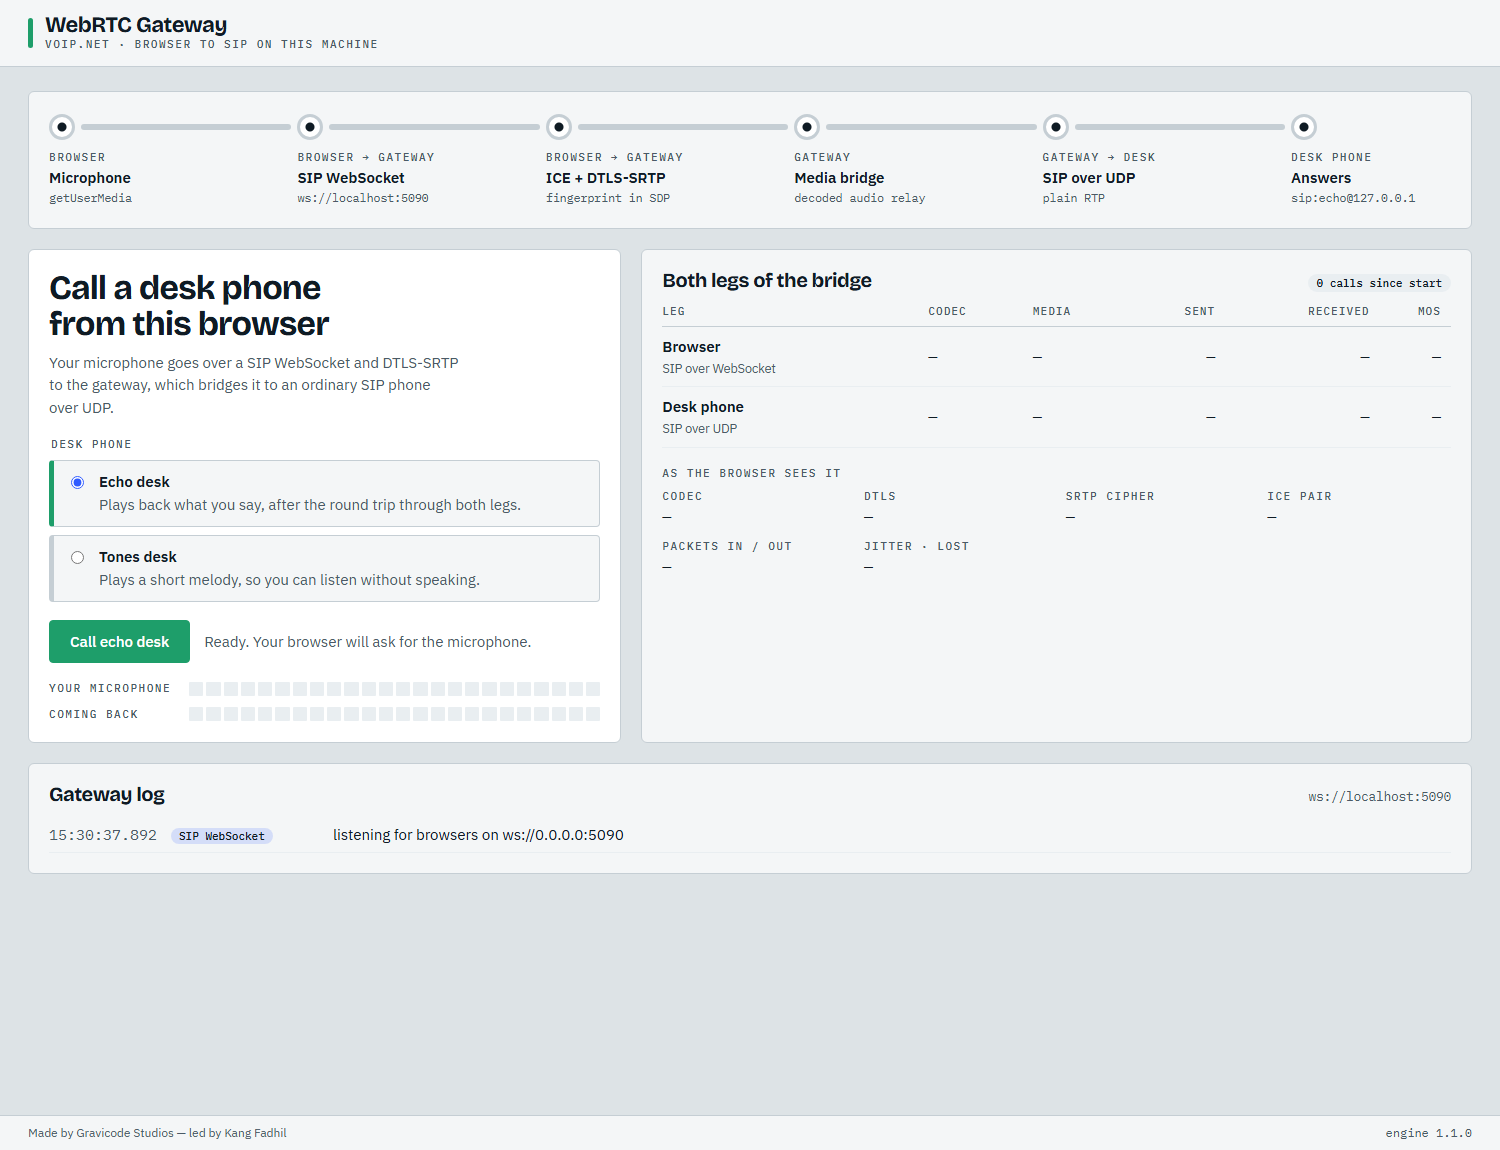
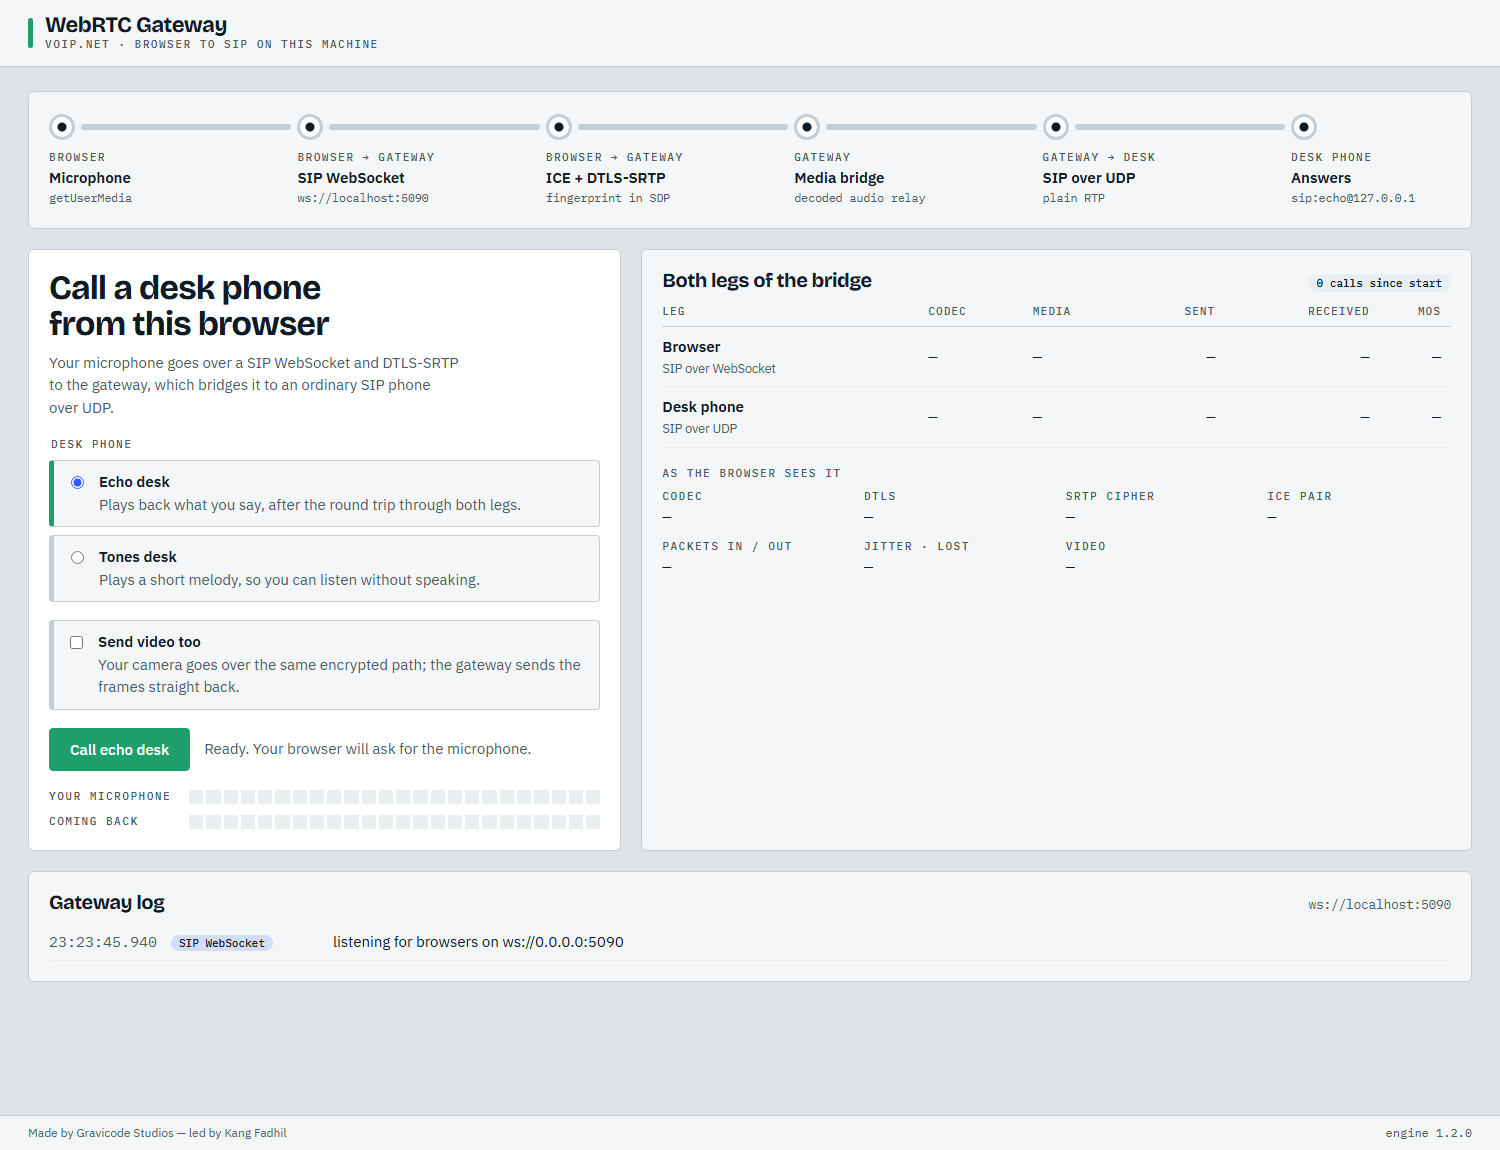
VoipNet: the WebPhone sample sends video
Tick "Send video too" and the browser's camera goes over the same DTLS-SRTP
path as the microphone: the engine reassembles the frames, the gateway sends
them straight back, and the returned picture plays in the page. Edge encodes
VP8 at 320×240 and decodes what comes back — the whole video path through a real
browser encoder, the engine, and back to a real decoder.

Video means a transport per media line rather than BUNDLE, because each stream
has its own port here: the page asks for max-compat when video is on, and the
engine only claims a BUNDLE group when a single stream was accepted.

The CI interop test now ticks the box too and fails unless video returns.

diff --git a/VoipNet/samples/VoipNet.WebPhone/wwwroot/webphone.js b/VoipNet/samples/VoipNet.WebPhone/wwwroot/webphone.js
@@ -35,7 +35,11 @@ function parse(text) {
 const uriOf = value => (/<([^>]+)>/.exec(value) ?? [null, value.split(";")[0]])[1];
 
 async function collectStats(pc) {
-    const out = { packetsSent: 0, packetsReceived: 0, packetsLost: 0, jitterMs: 0, micLevel: 0, remoteLevel: 0, codec: "", dtlsState: "", srtpCipher: "", candidatePair: "" };
+    const out = {
+        packetsSent: 0, packetsReceived: 0, packetsLost: 0, jitterMs: 0, micLevel: 0, remoteLevel: 0,
+        codec: "", dtlsState: "", srtpCipher: "", candidatePair: "",
+        videoCodec: "", videoFramesSent: 0, videoFramesReceived: 0, videoSize: "",
+    };
     const report = await pc.getStats();
     const byId = new Map();
     report.forEach(s => byId.set(s.id, s));
@@ -48,6 +52,13 @@ async function collectStats(pc) {
             out.remoteLevel = s.audioLevel ?? 0;
             const codec = byId.get(s.codecId);
             if (codec) out.codec = `${codec.mimeType.replace("audio/", "")} ${codec.clockRate / 1000} kHz`;
+        }
+        if (s.type === "outbound-rtp" && s.kind === "video") out.videoFramesSent = s.framesEncoded ?? 0;
+        if (s.type === "inbound-rtp" && s.kind === "video") {
+            out.videoFramesReceived = s.framesDecoded ?? 0;
+            if (s.frameWidth) out.videoSize = `${s.frameWidth}×${s.frameHeight}`;
+            const codec = byId.get(s.codecId);
+            if (codec) out.videoCodec = codec.mimeType.replace("video/", "");
         }
         if (s.type === "media-source" && s.kind === "audio") out.micLevel = s.audioLevel ?? 0;
         if (s.type === "transport") {
@@ -65,7 +76,7 @@ async function collectStats(pc) {
 }
 
 /** Places a call through the gateway. `view` receives OnPhase(phase, detail) and OnStats(stats). */
-export async function call(view, wsUrl, desk, audioElement) {
+export async function call(view, wsUrl, desk, audioElement, videoElement, withVideo) {
     hangup();
     const host = new URL(wsUrl).host;
     const domain = `${token(8)}.invalid`;
@@ -92,7 +103,10 @@ export async function call(view, wsUrl, desk, audioElement) {
 
     try {
         report("microphone");
-        state.stream = await navigator.mediaDevices.getUserMedia({ audio: { echoCancellation: false, noiseSuppression: false } });
+        // A small picture at a modest frame rate: this is a demonstration, not a broadcast.
+        const wanted = { audio: { echoCancellation: false, noiseSuppression: false } };
+        if (withVideo) wanted.video = { width: 320, height: 240, frameRate: 15 };
+        state.stream = await navigator.mediaDevices.getUserMedia(wanted);
         report("connecting", wsUrl);
         state.ws = new WebSocket(wsUrl, "sip");
         await new Promise((resolve, reject) => {
@@ -100,11 +114,15 @@ export async function call(view, wsUrl, desk, audioElement) {
             state.ws.onerror = () => reject(new Error(`Could not open ${wsUrl}. Is the gateway running?`));
         });
 
-        const pc = state.pc = new RTCPeerConnection({ bundlePolicy: "max-bundle" });
+        // Voip.NET gives each media stream its own port, so audio and video cannot share a transport:
+        // with video the browser is asked for one transport per m-line.
+        const pc = state.pc = new RTCPeerConnection({ bundlePolicy: withVideo ? "max-compat" : "max-bundle" });
         state.stream.getTracks().forEach(t => pc.addTrack(t, state.stream));
         pc.ontrack = e => {
-            audioElement.srcObject = e.streams[0] ?? new MediaStream([e.track]);
-            audioElement.play().catch(() => { });
+            const element = e.track.kind === "video" ? videoElement : audioElement;
+            if (!element) return;
+            element.srcObject = e.streams[0] ?? new MediaStream([e.track]);
+            element.play().catch(() => { });
         };
         pc.onconnectionstatechange = () => report(`pc-${pc.connectionState}`);
         // Candidates found before the call is answered wait here; later ones go out as they appear.

diff --git a/VoipNet/samples/VoipNet.WebPhone/wwwroot/app.css b/VoipNet/samples/VoipNet.WebPhone/wwwroot/app.css
@@ -241,6 +241,23 @@ table.grid td.num { font-family: var(--mono); text-align: right; }
 .status { color: var(--ink-soft); }
 .status.bad { color: var(--red); }
 
+/* The camera toggle sits with the desk choices but outside the fieldset, so it stays usable on a call. */
+.video-toggle { margin: 0 0 18px; }
+.video-toggle.connected { border-left-color: var(--cobalt); }
+
+/* The returning picture: small, quiet, and only there when video is on. */
+.return-video { margin: 16px 0 0; display: grid; gap: 6px; }
+.return-video.hidden { display: none; }
+.return-video video {
+    width: 100%;
+    max-width: 320px;
+    aspect-ratio: 4 / 3;
+    background: var(--trace);
+    border: 1px solid var(--hairline);
+    border-radius: 4px;
+    object-fit: cover;
+}
+
 .meters { display: grid; gap: 10px; }
 .meter { display: grid; grid-template-columns: 130px 1fr; align-items: center; gap: 10px; }
 .ladder { display: grid; grid-template-columns: repeat(24, 1fr); gap: 3px; height: 14px; }

diff --git a/VoipNet/tools/VoipNet.DocShots/Program.cs b/VoipNet/tools/VoipNet.DocShots/Program.cs
@@ -67,6 +67,8 @@ switch (scenario)
         await browser.NavigateAsync($"{baseUrl}/");
         await browser.WaitForAsync("[...document.querySelectorAll('button')].some(b => b.textContent.trim() === 'Call echo desk' && !b.disabled)", TimeSpan.FromSeconds(15));
         await browser.ScreenshotAsync(Path.Combine(output, $"webphone-idle{suffix}.png"), fullPage: true);
+        // The fake camera is on for these runs, so the call carries video as well as audio.
+        await browser.EvaluateAsync("document.querySelector('.video-toggle input').click()");
         await browser.ClickTextAsync("button", "Call echo desk");
         var flowing = await browser.WaitForAsync("document.body.innerText.includes('Media is flowing')", TimeSpan.FromSeconds(30));
         await browser.WaitForAsync("document.querySelectorAll('.jack.live').length === 6", TimeSpan.FromSeconds(20));
@@ -78,11 +80,16 @@ switch (scenario)
         Console.WriteLine(await browser.EvaluateAsync("[...document.querySelectorAll('.jack')].map(j => j.className + ' ' + j.querySelector('.jack-detail').innerText).join('\\n')"));
         var received = await browser.EvaluateAsync("(() => { const t = [...document.querySelectorAll('.facts div')].find(d => d.innerText.startsWith('Packets') || d.innerText.startsWith('PACKETS')); return t ? parseInt(t.querySelector('dd').innerText) || 0 : 0; })()");
         var live = await browser.EvaluateAsync("document.querySelectorAll('.jack.live').length");
+        // Frames the browser decoded from what the gateway sent back: the video path, end to end.
+        var videoBack = await browser.EvaluateAsync("(() => { const el = document.querySelector('.return-video video'); return el ? el.videoWidth : 0; })()");
         await browser.ClickTextAsync("button", "Hang up");
         await Task.Delay(TimeSpan.FromSeconds(2));
 
-        var ok = flowing && Number(received) > 50 && Number(live) == 6;
-        Console.WriteLine(ok ? "interop: OK" : $"interop: FAILED (flowing={flowing}, packets in={Number(received)}, live hops={Number(live)})");
+        var ok = flowing && Number(received) > 50 && Number(live) == 6 && Number(videoBack) > 0;
+        Console.WriteLine($"video returned: {Number(videoBack)}px wide");
+        Console.WriteLine(ok
+            ? "interop: OK"
+            : $"interop: FAILED (flowing={flowing}, packets in={Number(received)}, live hops={Number(live)}, video width={Number(videoBack)})");
         return ok ? 0 : 1;
 
     default:

diff --git a/VoipNet/samples/VoipNet.WebPhone/Services/Gateway.cs b/VoipNet/samples/VoipNet.WebPhone/Services/Gateway.cs
@@ -41,6 +41,9 @@ public sealed class Bridge
 
     public string? SecurityError { get; internal set; }
 
+    /// <summary>True once video has arrived from the browser, so the page can say so.</summary>
+    public bool VideoSeen { get; internal set; }
+
     public bool Ended => BrowserLeg.State == CallState.Terminated;
 
     public CallStatistics? BrowserStats => Stats(BrowserLeg);
@@ -108,6 +111,8 @@ public sealed class Gateway(ILogger<Gateway> logger) : IHostedService, IAsyncDis
             Srtp = SrtpMode.Mandatory,
             SrtpKeying = SrtpKeying.Dtls,
             Ice = true,
+            // A browser that offers video gets it back: the gateway echoes the frames it reassembles.
+            Video = true,
             UserAgent = "Voip.NET WebRTC gateway",
         });
 
@@ -156,6 +161,26 @@ public sealed class Gateway(ILogger<Gateway> logger) : IHostedService, IAsyncDis
         var trunkLeg = _trunk!.Call($"sip:{desk}@{_desk!.LocalAddress}");
         bridge.TrunkLeg = trunkLeg;
         Changed?.Invoke();
+
+        // Video is echoed rather than bridged: the desk phone is audio only, and returning the frames
+        // shows the whole encrypted video path working — browser encoder, SRTP, this engine, and back.
+        browserLeg.VideoFrameReceived += (call, timestamp, _, frame, content) =>
+        {
+            try
+            {
+                call.SendVideoFrame(timestamp, frame, content);
+                if (!bridge.VideoSeen)
+                {
+                    bridge.VideoSeen = true;
+                    Log(Hop.Bridge, $"video from the browser ({call.VideoCodec}), echoing it back");
+                    Changed?.Invoke();
+                }
+            }
+            catch (VoipException)
+            {
+                // The browser hung up between frames.
+            }
+        };
 
         // Relay decoded audio in both directions; the engine resamples and paces each leg.
         browserLeg.AudioReceived += (_, direction, rate, samples) =>

diff --git a/VoipNet/native/voipnet-core/src/sip/endpoint.rs b/VoipNet/native/voipnet-core/src/sip/endpoint.rs
@@ -1451,11 +1451,13 @@ impl Inner {
                     ..Default::default()
                 }));
             }
-            // Keep BUNDLE (RFC 8843) for the accepted streams so WebRTC peers accept the answer.
+            // BUNDLE (RFC 8843) means one transport for every stream in the group, and this engine gives
+            // each stream its own port. So the group is only claimed when a single stream was accepted;
+            // with audio and video up, the answer leaves it out and the peer uses a transport per line.
             if offer.groups.iter().any(|g| g.starts_with("BUNDLE")) {
                 let mids: Vec<String> = sdp.media.iter().filter(|m| m.port != 0).filter_map(|m| m.mid.clone()).collect();
-                if !mids.is_empty() {
-                    sdp.groups.push(format!("BUNDLE {}", mids.join(" ")));
+                if mids.len() == 1 {
+                    sdp.groups.push(format!("BUNDLE {}", mids[0]));
                 }
             }
         }

diff --git a/VoipNet/Progress.md b/VoipNet/Progress.md
@@ -66,6 +66,7 @@ Legend · Keterangan: ✅ done · selesai — 🟡 partial · sebagian — ⏳ p
 | SRTP AES_CM_128_HMAC_SHA1_80 and AEAD_AES_128/256_GCM (RFC 7714) | ✅ | SDES or DTLS keys · kunci SDES atau DTLS |
 | DTLS-SRTP (RFC 5763/5764) | ✅ | dimpl DTLS 1.2 (pure Rust), fingerprint check, `a=setup` roles, no plain RTP before keys · tanpa RTP polos sebelum kunci siap |
 | Data channels (SCTP) | ⏳ | |
+| Browser video interop | ✅ | the WebPhone sample sends camera video over DTLS-SRTP; the gateway echoes the reassembled frames and the browser decodes them again (Edge: VP8 320×240, 64 frames out and back). Checked on every CI build · video kamera dari browser diuji pada setiap build CI |
 | Browser interop | ✅ | Chrome/Edge and Firefox verified on a desktop; Chrome gates every CI build (`tools/VoipNet.DocShots webphone`) and the build fails unless encrypted audio flows both ways. Firefox on hosted runners signals the call but never finishes ICE there, so that step reports without failing. Safari not tested (no macOS machine) · diuji di setiap build CI; Safari belum diuji |
 
 ## 🎥 Video · Fitur video
@@ -148,6 +149,7 @@ Planned in · Direncanakan di [PLAN.md 1.3](PLAN.md#13---video--fitur-video).
 
 ### Unreleased · Belum dirilis
 
+- The WebPhone sample sends video: the browser's camera goes over the same DTLS-SRTP path, the gateway echoes the frames it reassembles, and the returned picture plays in the page. The CI interop test now fails unless video comes back too. · Sample WebPhone mengirim video kamera; gateway memantulkannya dan CI menuntut video ikut kembali.
 - Conference video: the bridge forwards the active speaker (or a pinned participant) to everyone else, asking the new source for a keyframe before it switches. `FollowSpeaker()`, `Pin(call)` and `ActiveSpeaker` on `VoipConference`. · Video konferensi mengikuti pembicara aktif atau peserta yang dipin.
 - Screen sharing: a call can offer a second video stream marked `a=content:slides`, frames say which stream they belong to, and withdrawing the share leaves the call and the camera alone. · Berbagi layar sebagai stream video kedua, lengkap dengan label pada setiap frame.
 - CRM connectors for HubSpot, Salesforce, Dynamics 365 and Odoo: look a caller up by number, read their recent tickets, open one, and add a note — the four operations a voice agent needs. · Konektor CRM untuk HubSpot, Salesforce, Dynamics 365, dan Odoo.

diff --git a/VoipNet/docs/id/tools-and-diagnostics.md b/VoipNet/docs/id/tools-and-diagnostics.md
@@ -173,6 +173,12 @@ Sunting menu, opsi, dan instruksi AI; lihat jalur panggilan; tekan tombol pada t
 
 Gateway WebRTC dalam satu mesin. Script halaman adalah client SIP over WebSocket kecil: ia menelepon endpoint gateway (`ws://host:5090`) dengan offer `RTCPeerConnection`, lalu gateway menjawab dengan ICE dan DTLS-SRTP dan meneruskan audionya ke panggilan SIP/UDP biasa menuju telepon meja (echo atau pemutar nada). Jalur sinyal di bagian atas menyala hop demi hop; kedua leg menampilkan codec, enkripsi, paket, dan MOS, berdampingan dengan laporan browser sendiri dari `getStats()`.
 
+Centang **Send video too** dan kamera ikut melewati jalur terenkripsi yang sama: engine merakit
+kembali frame-nya, gateway langsung mengirimkannya balik, dan gambar yang kembali diputar di bawah meter.
+Video berarti satu transport per baris media, bukan BUNDLE, karena setiap stream punya port sendiri di
+sini — jadi halamannya meminta `max-compat` ke browser saat video aktif. Uji interop di CI berjalan
+dengan kamera palsu dan gagal bila video tidak ikut kembali.
+
 ### Realtime Agent (console)
 
 ```bash

diff --git a/VoipNet/docs/en/tools-and-diagnostics.md b/VoipNet/docs/en/tools-and-diagnostics.md
@@ -184,6 +184,12 @@ Edit menus, options and AI instructions; see the call path; press keys on a phon
 
 A WebRTC gateway on one machine. The page's script is a small SIP-over-WebSocket client: it calls the gateway endpoint (`ws://host:5090`) with an `RTCPeerConnection` offer, and the gateway answers with ICE and DTLS-SRTP, then relays the audio to an ordinary SIP/UDP call to a desk phone (an echo or a tone player). The signal path at the top lights up hop by hop; both legs show codec, encryption, packets and MOS, next to what the browser itself reports from `getStats()`.
 
+Tick **Send video too** and the camera goes over the same encrypted path: the engine reassembles the
+frames, the gateway sends them straight back, and the returned picture plays under the meters. Video
+means one transport per media line rather than BUNDLE, since each stream has its own port here, so the
+page asks the browser for `max-compat` when video is on. The CI interop test runs with a fake camera and
+fails unless the video comes back as well as the audio.
+
 ### Realtime Agent (console)
 
 ```bash
